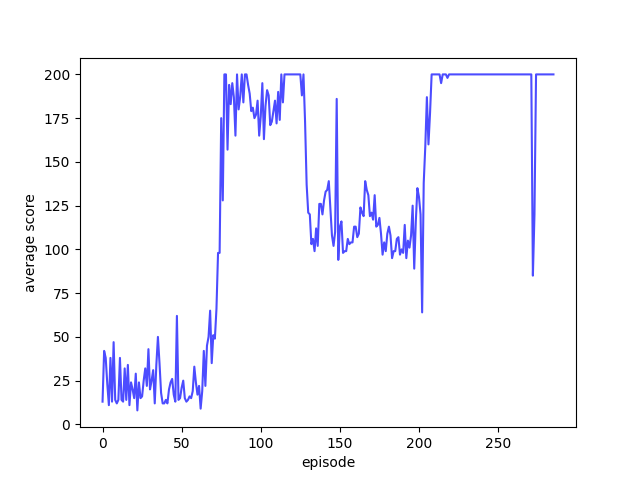
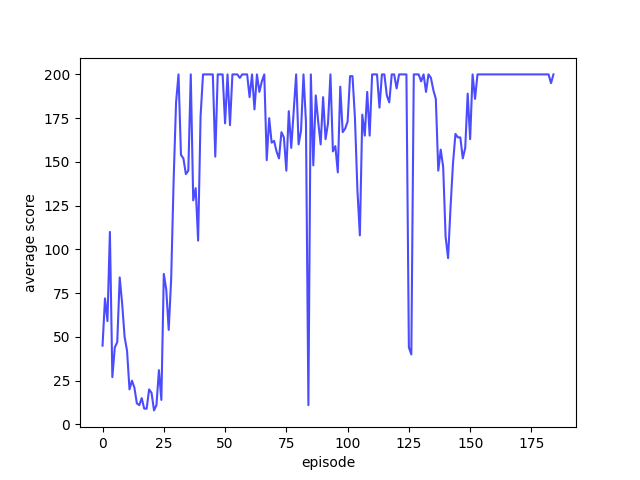
[docs] SAC

diff --git a/RL_assignment-main/assignment_02/part2/SAC.py b/RL_assignment-main/assignment_02/part2/SAC.py
@@ -43,7 +43,7 @@ class actor_DNN(tf.keras.Model):
         return policy
 
 
-class A2C2a:
+class SACa:
     def __init__(self, state_size, action_size):
         self.state_size = state_size
         self.action_size = action_size
@@ -122,12 +122,14 @@ class A2C2a:
         self.critic_optimizer.apply_gradients(zip(critic_grads, critic_params))
 
 
-class A2C(tf.keras.Model):
+class SAC_DNN(tf.keras.Model):
     def __init__(self, action_size):
-        super(A2C, self).__init__()
+        super(SAC_DNN, self).__init__()
         self.actor_fc = Dense(24, activation='relu')
         self.actor_out = Dense(action_size, activation='softmax',
                                kernel_initializer=RandomUniform(-1e-3, 1e-3))
+
+
         self.critic_fc1 = Dense(24, activation='relu')
         self.critic_fc2 = Dense(24, activation='relu')
         self.critic_out = Dense(action_size,
@@ -143,7 +145,7 @@ class A2C(tf.keras.Model):
         return policy, value
 
 
-# 카트폴 예제에서의 액터-크리틱(A2C) 에이전트
+# 카트폴 예제에서의 액터-크리틱(SAC_DNN) 에이전트
 class SAC:
     def __init__(self, action_size):
         self.render = False
@@ -164,8 +166,8 @@ class SAC:
 
 
         # 정책신경망과 가치신경망 생성
-        self.model = A2C(self.action_size)
-        self.target_model = A2C(self.action_size)
+        self.model = SAC_DNN(self.action_size)
+        self.target_model = SAC_DNN(self.action_size)
         # 최적화 알고리즘 설정, 미분값이 너무 커지는 현상을 막기 위해 clipnorm 설정
         self.optimizer = Adam(learning_rate=self.learning_rate, clipnorm=5.0)
         self.update_target_model()
@@ -209,15 +211,14 @@ class SAC:
             one_hot_next_action = tf.one_hot(next_actions, self.action_size)
             next_q_value = tf.reduce_sum(one_hot_next_action*next_q_value, axis=1)
 
-            targets = rewards + (1 - dones) * self.discount_factor * (next_q_value+ self.lamb*tf.reduce_sum(-policies*tf.math.log(policies + 1e-5)))
+            targets = rewards + (1 - dones) * self.discount_factor * (next_q_value + self.lamb*tf.reduce_sum(-policies*tf.math.log(policies + 1e-5), axis=1))
 
             # 가치 신경망 오류 함수 구하기
             critic_loss = 0.5 * tf.square(tf.stop_gradient(targets) - q_predicts)
             critic_loss = tf.reduce_mean(critic_loss)
 
             # 정책 신경망 오류 함수 구하기
-            exp_t_q_value = np.exp(t_q_value/self.lamb)
-            softmax_q_lambda = tf.nn.softmax(exp_t_q_value, axis=1)
+            softmax_q_lambda = tf.nn.softmax(t_q_value/self.lamb, axis=1)
             softmax_q_lambda = tf.stop_gradient(softmax_q_lambda)
 
 
@@ -281,7 +282,7 @@ def main():
             state = next_state
            
             if done:
-                if len(agent.memory) >= agent.batch_size:
+                if len(agent.memory) >= agent.batch_size and e % 2 == 0:
                     agent.update_target_model()
                 score_past100.append(score)
                 print("episode: {:3d} | score: {:3.2f} | memory length: {:4d}  ".format(e, score, len(agent.memory)))

diff --git a/RL_assignment-main/assignment_02/part2/SQN.py b/RL_assignment-main/assignment_02/part2/SQN.py
@@ -94,16 +94,9 @@ class DQNAgent:
     def get_action_stochastic(self, state):
 
         q = np.array(self.model(state)[0])
-        #q = np.array(q)
-        #exp_q = np.exp(q/self.l)
-        exp_q = tf.math.exp(q/self.l)
-        policy = tf.nn.softmax(exp_q)
+        policy = tf.nn.softmax(q/self.l)
         policy = np.array(policy)
-        #return np.random.choice(self.action_size, 1, p=policy)[0]
-        try:
-            return np.random.choice(self.action_size, 1, p=policy)[0]
-        except:
-            return np.argmax(self.model(state)[0])
+        return np.random.choice(self.action_size, 1, p=policy)[0]
 
 
 
@@ -112,8 +105,7 @@ class DQNAgent:
         self.memory.append((state, action, reward, next_state, done))
 
     def train_model(self):
-        # if self.epsilon > self.epsilon_min:
-        #     self.epsilon *= self.epsilon_decay
+
 
         mini_batch = random.sample(self.memory, self.batch_size)
 

diff --git a/RL_assignment-main/assignment_02/part2/DQN.py b/RL_assignment-main/assignment_02/part2/DQN.py
@@ -159,7 +159,7 @@ def main():
             # append replay memory
             agent1.append_sample_replay(state, action, reward, next_state, done)
 
-            if len(agent1.memory) >= agent1.train_start:
+            if len(agent1.memory) >= agent1.batch_size:
                 agent1.train_model()
             
             state = next_state

diff --git a/RL_assignment-main/assignment_02/test.py b/RL_assignment-main/assignment_02/test.py
@@ -4,8 +4,11 @@ import pylab
 import numpy as np
 import tensorflow as tf
 
-a = [[1, 2, 3], [4, 5, 6]]
-a = np.array(a, float)
-a= tf.nn.softmax(a, axis=1)
-print(a)
+a = np.array([[2, 2], [3, 3]])
+a = tf.constant(a)
+
+print(a*a)
+print(tf.reduce_sum(a*a))
+print(tf.reduce_sum(a*a, axis=1))
+
 
